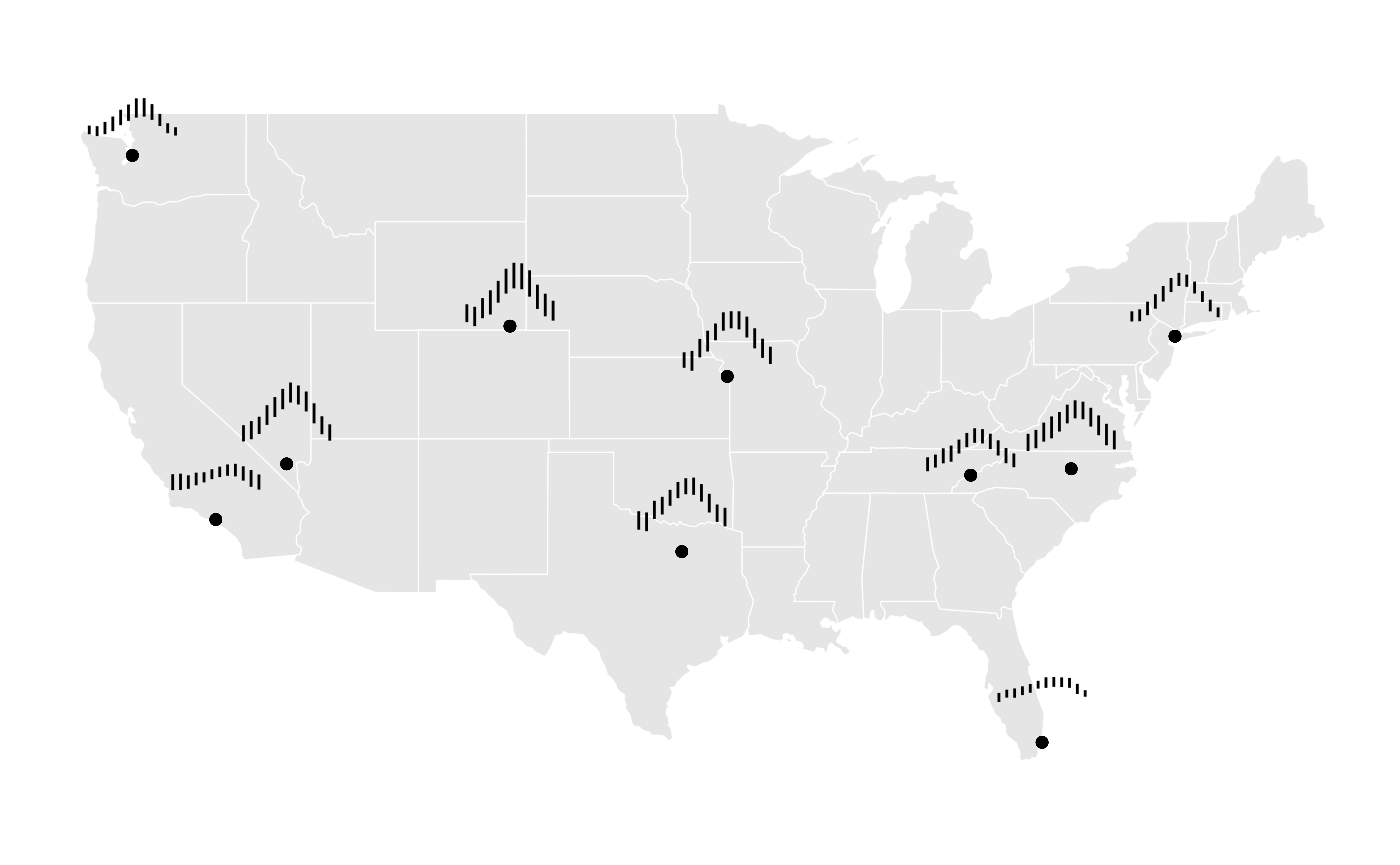
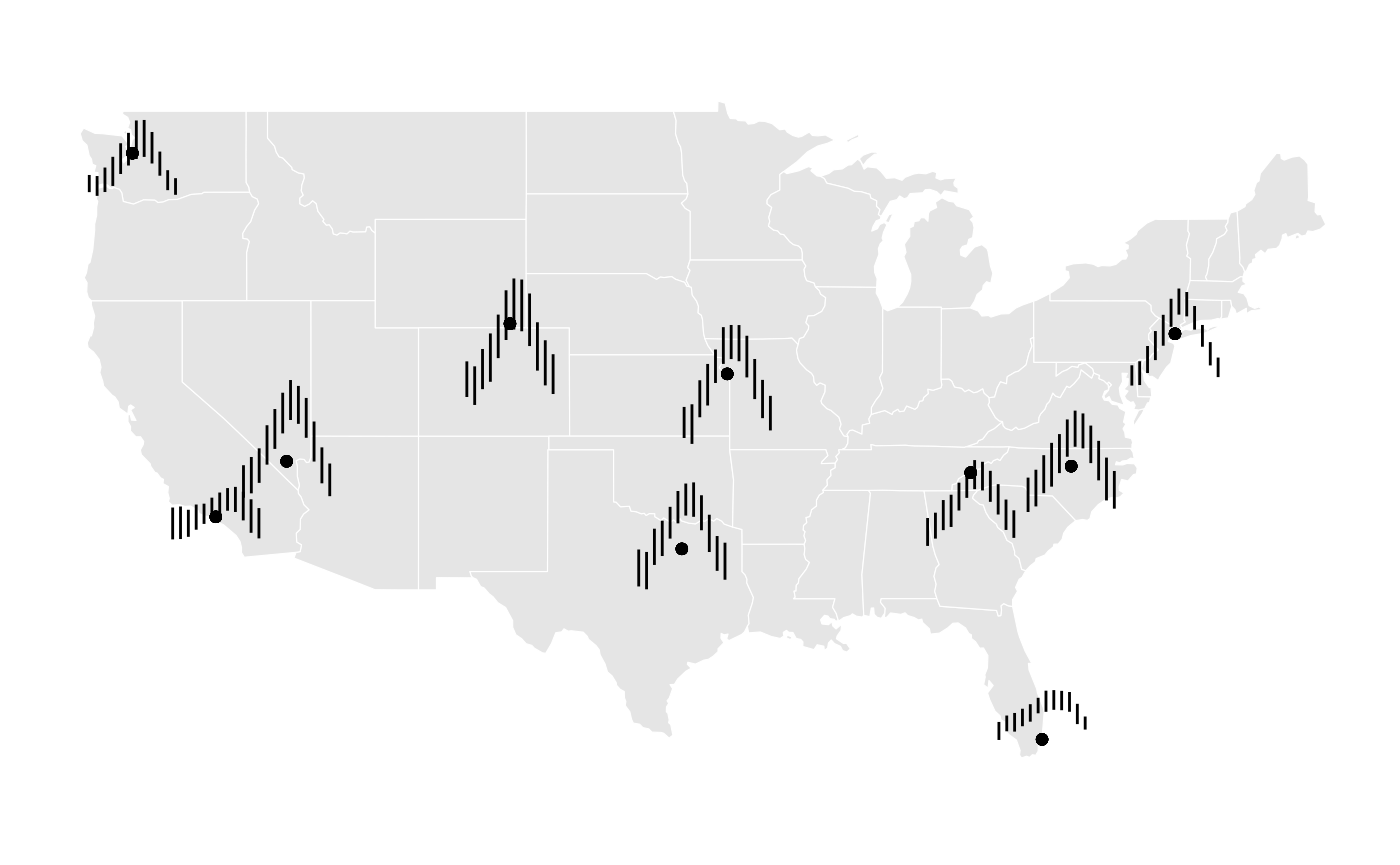
Improved website appearance + render

diff --git a/docs/index.html b/docs/index.html
@@ -71,33 +71,15 @@
 <p>This is an example which displays seasonal mins and maxes in temperature from NOAA across the US:</p>
 <div class="sourceCode" id="cb2"><pre class="downlit sourceCode r">
 <code class="sourceCode R"><span><span class="kw"><a href="https://rdrr.io/r/base/library.html" class="external-link">library</a></span><span class="op">(</span><span class="va"><a href="https://knicey.github.io/stglyphs/">stglpyhs</a></span><span class="op">)</span></span>
-<span><span class="kw"><a href="https://rdrr.io/r/base/library.html" class="external-link">library</a></span><span class="op">(</span><span class="va"><a href="https://dplyr.tidyverse.org" class="external-link">dplyr</a></span><span class="op">)</span></span>
-<span><span class="co">#&gt; </span></span>
-<span><span class="co">#&gt; Attaching package: 'dplyr'</span></span>
-<span><span class="co">#&gt; The following objects are masked from 'package:stats':</span></span>
-<span><span class="co">#&gt; </span></span>
-<span><span class="co">#&gt;     filter, lag</span></span>
-<span><span class="co">#&gt; The following objects are masked from 'package:base':</span></span>
-<span><span class="co">#&gt; </span></span>
-<span><span class="co">#&gt;     intersect, setdiff, setequal, union</span></span>
 <span><span class="kw"><a href="https://rdrr.io/r/base/library.html" class="external-link">library</a></span><span class="op">(</span><span class="va"><a href="https://ggplot2.tidyverse.org" class="external-link">ggplot2</a></span><span class="op">)</span></span>
-<span><span class="kw"><a href="https://rdrr.io/r/base/library.html" class="external-link">library</a></span><span class="op">(</span><span class="va"><a href="https://lubridate.tidyverse.org" class="external-link">lubridate</a></span><span class="op">)</span></span>
-<span><span class="co">#&gt; </span></span>
-<span><span class="co">#&gt; Attaching package: 'lubridate'</span></span>
-<span><span class="co">#&gt; The following objects are masked from 'package:base':</span></span>
-<span><span class="co">#&gt; </span></span>
-<span><span class="co">#&gt;     date, intersect, setdiff, union</span></span>
+<span><span class="kw"><a href="https://rdrr.io/r/base/library.html" class="external-link">library</a></span><span class="op">(</span><span class="va"><a href="https://dplyr.tidyverse.org" class="external-link">dplyr</a></span>, warn.conflicts <span class="op">=</span> <span class="cn">FALSE</span><span class="op">)</span></span>
 <span></span>
 <span><span class="va">stations_grouped</span> <span class="op">&lt;-</span> <span class="va">stations</span> <span class="op">|&gt;</span></span>
 <span>  <span class="fu"><a href="https://dplyr.tidyverse.org/reference/group_by.html" class="external-link">group_by</a></span><span class="op">(</span><span class="va">month</span>, <span class="va">name</span>, <span class="va">long</span>, <span class="va">lat</span><span class="op">)</span> <span class="op">|&gt;</span></span>
 <span>  <span class="fu"><a href="https://dplyr.tidyverse.org/reference/summarise.html" class="external-link">summarise</a></span><span class="op">(</span></span>
 <span>    avgmin <span class="op">=</span> <span class="fu"><a href="https://rdrr.io/r/base/mean.html" class="external-link">mean</a></span><span class="op">(</span><span class="va">tmin</span>, na.rm <span class="op">=</span> <span class="cn">TRUE</span><span class="op">)</span>,</span>
 <span>    avgmax <span class="op">=</span> <span class="fu"><a href="https://rdrr.io/r/base/mean.html" class="external-link">mean</a></span><span class="op">(</span><span class="va">tmax</span>, na.rm <span class="op">=</span> <span class="cn">TRUE</span><span class="op">)</span></span>
-<span>  <span class="op">)</span> <span class="op">|&gt;</span></span>
-<span>  <span class="fu"><a href="https://dplyr.tidyverse.org/reference/group_by.html" class="external-link">ungroup</a></span><span class="op">(</span><span class="op">)</span> </span>
-<span><span class="co">#&gt; `summarise()` has grouped output by 'month', 'name', 'long'. You can override</span></span>
-<span><span class="co">#&gt; using the `.groups` argument.</span></span>
-<span><span class="co">#TODO: Accommodate for xend aesthetic (required in geom_segment)</span></span></code></pre></div>
+<span>  <span class="op">)</span> </span></code></pre></div>
 <div class="sourceCode" id="cb3"><pre class="downlit sourceCode r">
 <code class="sourceCode R"><span><span class="fu"><a href="https://ggplot2.tidyverse.org/reference/ggplot.html" class="external-link">ggplot</a></span><span class="op">(</span>data <span class="op">=</span> <span class="va">stations_grouped</span><span class="op">)</span> <span class="op">+</span></span>
 <span>  <span class="fu"><a href="https://ggplot2.tidyverse.org/reference/ggsf.html" class="external-link">geom_sf</a></span><span class="op">(</span>data <span class="op">=</span> <span class="va">mainland_us</span>, color <span class="op">=</span> <span class="st">"white"</span><span class="op">)</span> <span class="op">+</span></span>
@@ -115,13 +97,12 @@
 <span>    x_minor <span class="op">=</span> <span class="va">month</span>, </span>
 <span>    y_minor <span class="op">=</span> <span class="va">avgmin</span>, </span>
 <span>    yend_minor <span class="op">=</span> <span class="va">avgmax</span><span class="op">)</span></span>
-<span>    <span class="op">)</span> </span>
-<span><span class="co">#&gt; Warning: Unknown or uninitialised column: `linewidth`.</span></span>
-<span><span class="co">#&gt; Warning: Unknown or uninitialised column: `size`.</span></span></code></pre></div>
-<p><img src="reference/figures/README-example-1.png" width="100%"></p>
+<span>    <span class="op">)</span> </span></code></pre></div>
+<p><img src="reference/figures/README-unnamed-chunk-2-1.png" width="100%"></p>
 <p>This is another example that shows flight cancellations from the airports that have the most flight cancellations:</p>
 <div class="sourceCode" id="cb4"><pre class="downlit sourceCode r">
-<code class="sourceCode R"><span><span class="va">flights_grouped</span> <span class="op">&lt;-</span> <span class="va">flights</span> <span class="op">|&gt;</span></span>
+<code class="sourceCode R"><span><span class="kw"><a href="https://rdrr.io/r/base/library.html" class="external-link">library</a></span><span class="op">(</span><span class="va"><a href="https://lubridate.tidyverse.org" class="external-link">lubridate</a></span>, warn.conflicts <span class="op">=</span> <span class="cn">FALSE</span><span class="op">)</span></span>
+<span><span class="va">flights_grouped</span> <span class="op">&lt;-</span> <span class="va">flights</span> <span class="op">|&gt;</span></span>
 <span>  <span class="fu"><a href="https://dplyr.tidyverse.org/reference/mutate.html" class="external-link">mutate</a></span><span class="op">(</span></span>
 <span>    month <span class="op">=</span> <span class="fu"><a href="https://lubridate.tidyverse.org/reference/month.html" class="external-link">month</a></span><span class="op">(</span><span class="va">FL_DATE</span><span class="op">)</span>,</span>
 <span>    year <span class="op">=</span> <span class="fu"><a href="https://lubridate.tidyverse.org/reference/year.html" class="external-link">year</a></span><span class="op">(</span><span class="va">FL_DATE</span><span class="op">)</span></span>
@@ -134,11 +115,7 @@
 <span>  <span class="fu"><a href="https://dplyr.tidyverse.org/reference/summarise.html" class="external-link">summarise</a></span><span class="op">(</span></span>
 <span>    max <span class="op">=</span> <span class="fu"><a href="https://rdrr.io/r/base/Extremes.html" class="external-link">max</a></span><span class="op">(</span><span class="va">total_flights</span><span class="op">)</span>,</span>
 <span>    min <span class="op">=</span> <span class="fu"><a href="https://rdrr.io/r/base/Extremes.html" class="external-link">min</a></span><span class="op">(</span><span class="va">total_flights</span><span class="op">)</span>,</span>
-<span>  <span class="op">)</span></span>
-<span><span class="co">#&gt; `summarise()` has grouped output by 'ORIGIN', 'month', 'year', 'longitude'. You</span></span>
-<span><span class="co">#&gt; can override using the `.groups` argument.</span></span>
-<span><span class="co">#&gt; `summarise()` has grouped output by 'ORIGIN', 'month', 'longitude'. You can</span></span>
-<span><span class="co">#&gt; override using the `.groups` argument.</span></span></code></pre></div>
+<span>  <span class="op">)</span></span></code></pre></div>
 <div class="sourceCode" id="cb5"><pre class="downlit sourceCode r">
 <code class="sourceCode R"><span><span class="fu"><a href="https://ggplot2.tidyverse.org/reference/ggplot.html" class="external-link">ggplot</a></span><span class="op">(</span>data <span class="op">=</span> <span class="va">flights_grouped</span><span class="op">)</span> <span class="op">+</span></span>
 <span>  <span class="fu"><a href="https://ggplot2.tidyverse.org/reference/ggsf.html" class="external-link">geom_sf</a></span><span class="op">(</span>data <span class="op">=</span> <span class="va">mainland_us</span>, color <span class="op">=</span> <span class="st">"white"</span><span class="op">)</span> <span class="op">+</span></span>
@@ -156,10 +133,8 @@
 <span>    x_minor <span class="op">=</span> <span class="va">month</span>, </span>
 <span>    y_minor <span class="op">=</span> <span class="va">min</span>, </span>
 <span>    yend_minor <span class="op">=</span> <span class="va">max</span><span class="op">)</span></span>
-<span>    <span class="op">)</span> </span>
-<span><span class="co">#&gt; Warning: Unknown or uninitialised column: `linewidth`.</span></span>
-<span><span class="co">#&gt; Warning: Unknown or uninitialised column: `size`.</span></span></code></pre></div>
-<p><img src="reference/figures/README-unnamed-chunk-3-1.png" width="100%"></p>
+<span>    <span class="op">)</span> </span></code></pre></div>
+<p><img src="reference/figures/README-unnamed-chunk-4-1.png" width="100%"></p>
 </div>
 </div>
   </main><aside class="col-md-3"><div class="license">

diff --git a/docs/articles/GeomSegmentGlyph.html b/docs/articles/GeomSegmentGlyph.html
@@ -165,31 +165,15 @@ center the glyph on the station.</p>
 <p><img src="GeomSegmentGlyph_files/figure-html/unnamed-chunk-5-1.png" width="700"></p>
 <p>Furthermore, there are options for y-scaling that include centering
 the glyph vertically on the station location.</p>
-<div class="sourceCode" id="cb6"><pre class="downlit sourceCode r">
-<code class="sourceCode R"><span><span class="fu"><a href="https://ggplot2.tidyverse.org/reference/ggplot.html" class="external-link">ggplot</a></span><span class="op">(</span>data <span class="op">=</span> <span class="va">grouped</span><span class="op">)</span> <span class="op">+</span></span>
-<span>  <span class="fu"><a href="https://ggplot2.tidyverse.org/reference/ggsf.html" class="external-link">geom_sf</a></span><span class="op">(</span>data <span class="op">=</span> <span class="va">mainland_us</span>, color <span class="op">=</span> <span class="st">"white"</span><span class="op">)</span> <span class="op">+</span></span>
-<span>  <span class="fu">ggthemes</span><span class="fu">::</span><span class="fu"><a href="http://jrnold.github.io/ggthemes/reference/theme_map.html" class="external-link">theme_map</a></span><span class="op">(</span><span class="op">)</span> <span class="op">+</span></span>
-<span>  <span class="fu"><a href="https://ggplot2.tidyverse.org/reference/geom_point.html" class="external-link">geom_point</a></span><span class="op">(</span><span class="fu"><a href="https://ggplot2.tidyverse.org/reference/aes.html" class="external-link">aes</a></span><span class="op">(</span>x <span class="op">=</span> <span class="va">long</span>, y <span class="op">=</span> <span class="va">lat</span><span class="op">)</span><span class="op">)</span> <span class="op">+</span></span>
-<span>  <span class="fu"><a href="../reference/glyph.html">geom_segment_glyph</a></span><span class="op">(</span></span>
-<span>    x_scale <span class="op">=</span> <span class="va">rescale11x</span>,</span>
-<span>    y_scale <span class="op">=</span> <span class="va">rescale01y</span>,</span>
-<span>    width <span class="op">=</span> <span class="fl">2</span>,</span>
-<span>    height <span class="op">=</span> <span class="fl">3</span>,</span>
-<span>    <span class="fu"><a href="https://ggplot2.tidyverse.org/reference/aes.html" class="external-link">aes</a></span><span class="op">(</span></span>
-<span>    x_major <span class="op">=</span> <span class="va">long</span>, </span>
-<span>    y_major <span class="op">=</span> <span class="va">lat</span>, </span>
-<span>    x_minor <span class="op">=</span> <span class="va">month</span>, </span>
-<span>    y_minor <span class="op">=</span> <span class="va">avgmin</span>, </span>
-<span>    yend_minor <span class="op">=</span> <span class="va">avgmax</span><span class="op">)</span></span>
-<span>    <span class="op">)</span> </span></code></pre></div>
 <p><img src="GeomSegmentGlyph_files/figure-html/unnamed-chunk-6-1.png" width="700"></p>
 <p>These rescaling past examples have all been made with global
 rescaling enabled (default) which results in the glyphs being
 differently sized according to their values relative to each other.
 Turning off global rescaling allows all glpyhs to rescale within their
 own individual values and produce glyphs that sized more evenly.</p>
-<div class="sourceCode" id="cb7"><pre class="downlit sourceCode r">
-<code class="sourceCode R"><span><span class="fu"><a href="https://ggplot2.tidyverse.org/reference/ggplot.html" class="external-link">ggplot</a></span><span class="op">(</span>data <span class="op">=</span> <span class="va">grouped</span><span class="op">)</span> <span class="op">+</span></span>
+<div class="sourceCode" id="cb6"><pre class="downlit sourceCode r">
+<code class="sourceCode R"><span></span>
+<span><span class="fu"><a href="https://ggplot2.tidyverse.org/reference/ggplot.html" class="external-link">ggplot</a></span><span class="op">(</span>data <span class="op">=</span> <span class="va">grouped</span><span class="op">)</span> <span class="op">+</span></span>
 <span>  <span class="fu"><a href="https://ggplot2.tidyverse.org/reference/ggsf.html" class="external-link">geom_sf</a></span><span class="op">(</span>data <span class="op">=</span> <span class="va">mainland_us</span>, color <span class="op">=</span> <span class="st">"white"</span><span class="op">)</span> <span class="op">+</span></span>
 <span>  <span class="fu">ggthemes</span><span class="fu">::</span><span class="fu"><a href="http://jrnold.github.io/ggthemes/reference/theme_map.html" class="external-link">theme_map</a></span><span class="op">(</span><span class="op">)</span> <span class="op">+</span></span>
 <span>  <span class="fu"><a href="https://ggplot2.tidyverse.org/reference/geom_point.html" class="external-link">geom_point</a></span><span class="op">(</span><span class="fu"><a href="https://ggplot2.tidyverse.org/reference/aes.html" class="external-link">aes</a></span><span class="op">(</span>x <span class="op">=</span> <span class="va">long</span>, y <span class="op">=</span> <span class="va">lat</span><span class="op">)</span><span class="op">)</span> <span class="op">+</span></span>
@@ -205,9 +189,7 @@ own individual values and produce glyphs that sized more evenly.</p>
 <span>    x_minor <span class="op">=</span> <span class="va">month</span>, </span>
 <span>    y_minor <span class="op">=</span> <span class="va">avgmin</span>, </span>
 <span>    yend_minor <span class="op">=</span> <span class="va">avgmax</span><span class="op">)</span></span>
-<span>    <span class="op">)</span> </span>
-<span><span class="co">#&gt; Warning: Unknown or uninitialised column: `linewidth`.</span></span>
-<span><span class="co">#&gt; Warning: Unknown or uninitialised column: `size`.</span></span></code></pre></div>
+<span>    <span class="op">)</span> </span></code></pre></div>
 <p><img src="GeomSegmentGlyph_files/figure-html/unnamed-chunk-7-1.png" width="700"></p>
 </div>
 <div class="section level2">

diff --git a/README.md b/README.md
@@ -1,27 +1,18 @@
-
 <!-- README.md is generated from README.Rmd. Please edit that file -->
 
 # stglpyhs
 
 <!-- badges: start -->
 
-[![R-CMD-check](https://github.com/Knicey/stglyphs/actions/workflows/R-CMD-check.yaml/badge.svg)](https://github.com/Knicey/stglyphs/actions/workflows/R-CMD-check.yaml)
-[![Codecov test
-coverage](https://codecov.io/gh/Knicey/stglyphs/branch/master/graph/badge.svg)](https://app.codecov.io/gh/Knicey/stglyphs?branch=master)
+[![R-CMD-check](https://github.com/Knicey/stglyphs/actions/workflows/R-CMD-check.yaml/badge.svg)](https://github.com/Knicey/stglyphs/actions/workflows/R-CMD-check.yaml) [![Codecov test coverage](https://codecov.io/gh/Knicey/stglyphs/branch/master/graph/badge.svg)](https://app.codecov.io/gh/Knicey/stglyphs?branch=master)
 
 <!-- badges: end -->
 
-The goal of stglpyhs is to introduce new ways of visualizing
-spatio-temporal data and in particular analyzing across multivariate
-seasonal data. The existing cubble package implements glyph maps in the
-form of line graphs. This project seeks to expand this functionality to
-segment plots to visualize multivariable data better and analyze
-seasonal trends.
+The goal of stglpyhs is to introduce new ways of visualizing spatio-temporal data and in particular analyzing across multivariate seasonal data. The existing cubble package implements glyph maps in the form of line graphs. This project seeks to expand this functionality to segment plots to visualize multivariable data better and analyze seasonal trends.
 
 ## Installation
 
-You can install the development version of stglpyhs from
-[GitHub](https://github.com/) with:
+You can install the development version of stglpyhs from [GitHub](https://github.com/) with:
 
 ``` r
 # install.packages("devtools")
@@ -30,38 +21,19 @@ devtools::install_github("Knicey/stglyphs")
 
 ## Example
 
-This is an example which displays seasonal mins and maxes in temperature
-from NOAA across the US:
+This is an example which displays seasonal mins and maxes in temperature from NOAA across the US:
 
 ``` r
 library(stglpyhs)
-library(dplyr)
-#> 
-#> Attaching package: 'dplyr'
-#> The following objects are masked from 'package:stats':
-#> 
-#>     filter, lag
-#> The following objects are masked from 'package:base':
-#> 
-#>     intersect, setdiff, setequal, union
 library(ggplot2)
-library(lubridate)
-#> 
-#> Attaching package: 'lubridate'
-#> The following objects are masked from 'package:base':
-#> 
-#>     date, intersect, setdiff, union
+library(dplyr, warn.conflicts = FALSE)
 
 stations_grouped <- stations |>
   group_by(month, name, long, lat) |>
   summarise(
     avgmin = mean(tmin, na.rm = TRUE),
     avgmax = mean(tmax, na.rm = TRUE)
-  ) |>
-  ungroup() 
-#> `summarise()` has grouped output by 'month', 'name', 'long'. You can override
-#> using the `.groups` argument.
-#TODO: Accommodate for xend aesthetic (required in geom_segment)
+  ) 
 ```
 
 ``` r
@@ -82,16 +54,14 @@ ggplot(data = stations_grouped) +
     y_minor = avgmin, 
     yend_minor = avgmax)
     ) 
-#> Warning: Unknown or uninitialised column: `linewidth`.
-#> Warning: Unknown or uninitialised column: `size`.
 ```
 
-<img src="man/figures/README-example-1.png" width="100%" />
+<img src="man/figures/README-unnamed-chunk-2-1.png" width="100%"/>
 
-This is another example that shows flight cancellations from the
-airports that have the most flight cancellations:
+This is another example that shows flight cancellations from the airports that have the most flight cancellations:
 
 ``` r
+library(lubridate, warn.conflicts = FALSE)
 flights_grouped <- flights |>
   mutate(
     month = month(FL_DATE),
@@ -106,10 +76,6 @@ flights_grouped <- flights |>
     max = max(total_flights),
     min = min(total_flights),
   )
-#> `summarise()` has grouped output by 'ORIGIN', 'month', 'year', 'longitude'. You
-#> can override using the `.groups` argument.
-#> `summarise()` has grouped output by 'ORIGIN', 'month', 'longitude'. You can
-#> override using the `.groups` argument.
 ```
 
 ``` r
@@ -130,8 +96,6 @@ ggplot(data = flights_grouped) +
     y_minor = min, 
     yend_minor = max)
     ) 
-#> Warning: Unknown or uninitialised column: `linewidth`.
-#> Warning: Unknown or uninitialised column: `size`.
 ```
 
-<img src="man/figures/README-unnamed-chunk-3-1.png" width="100%" />
+<img src="man/figures/README-unnamed-chunk-4-1.png" width="100%"/>
